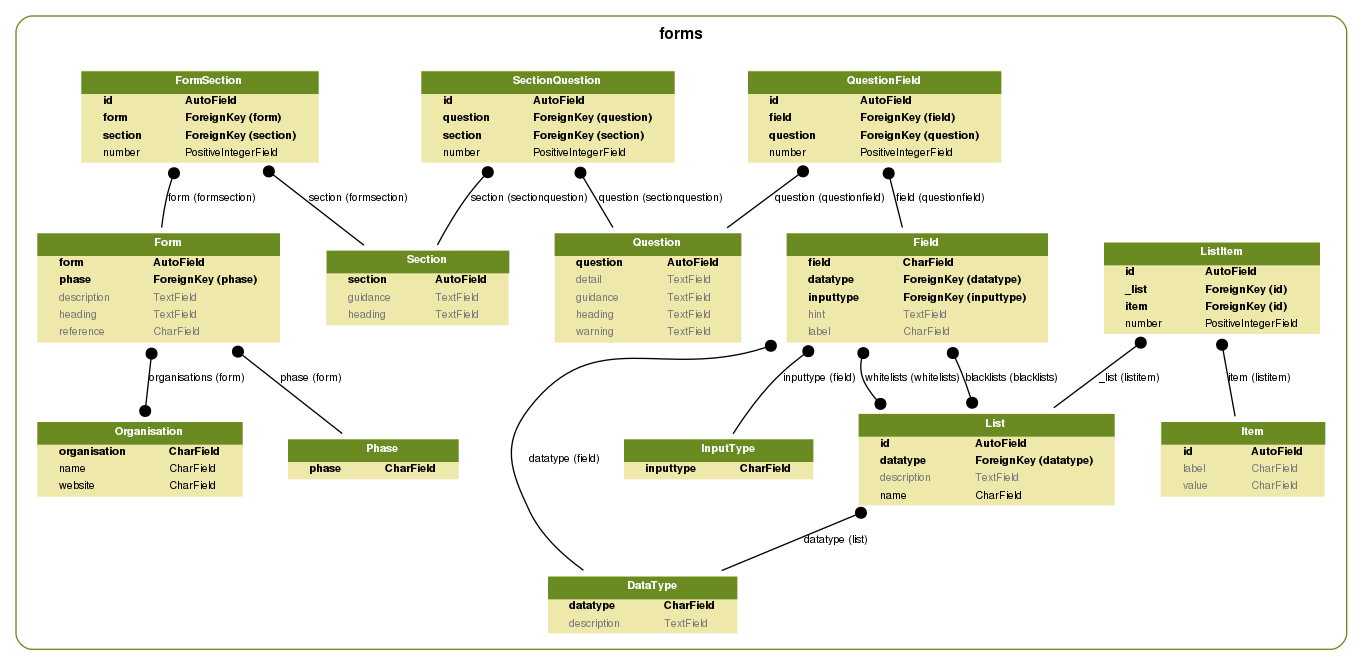
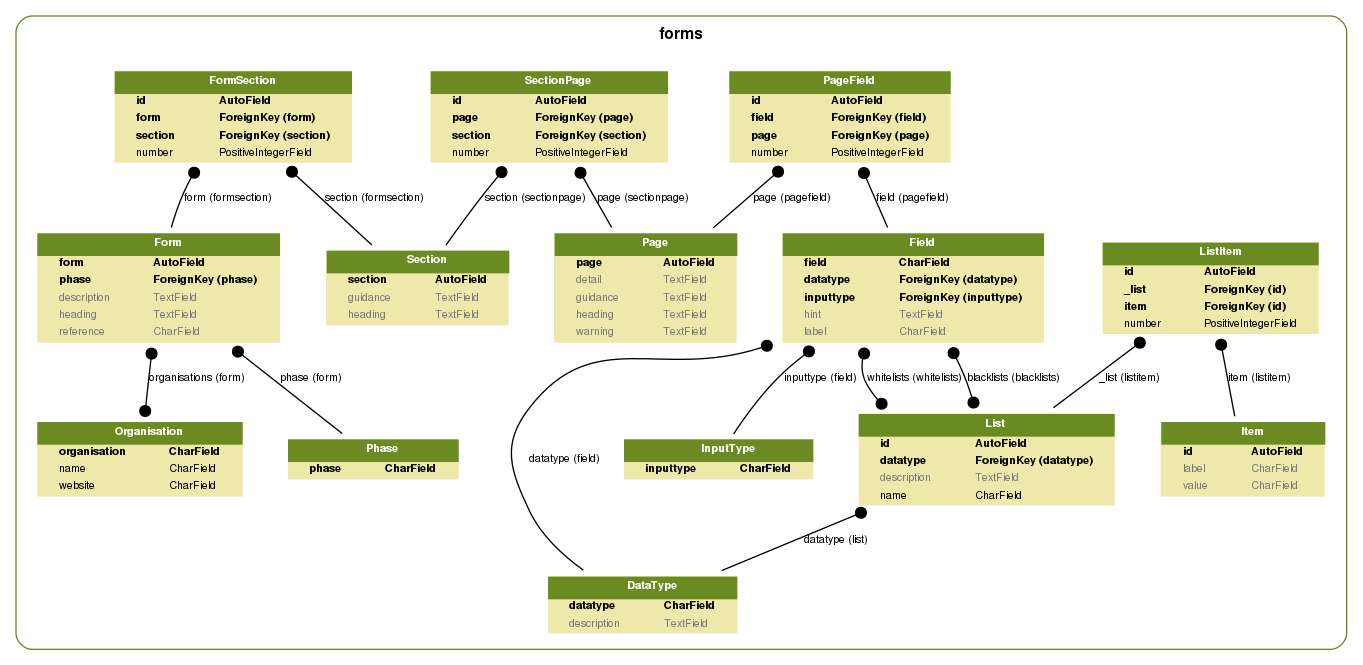
Renamed Question to Page

diff --git a/forms/templates/runner/elements/preview.html b/forms/templates/runner/elements/preview.html
@@ -23,27 +23,27 @@
     <p>{{ section.guidance }}</p>
     {% endif %}
 
-    {% for sectionquestion in section.sectionquestion_set.all %}
+    {% for sectionpage in section.sectionpage_set.all %}
 
     <div class="form-group">
       <fieldset>
           <legend>
-              <h1 class="heading-medium">{{ sectionquestion.question.heading }}</h1>
+              <h1 class="heading-medium">{{ sectionpage.page.heading }}</h1>
 
-              {% if sectionquestion.question.guidance %}
-              <span class="body-text">{{ sectionquestion.question.guidance }}</span>
+              {% if sectionpage.page.guidance %}
+              <span class="body-text">{{ sectionpage.page.guidance }}</span>
               {% endif %}
 
           </legend>
 
-      {% if sectionquestion.question.warning %}<p>{{ sectionquestion.question.warning }}</p>{% endif %}
+      {% if sectionpage.page.warning %}<p>{{ sectionpage.page.warning }}</p>{% endif %}
 
-      {% if sectionquestion.question.detail %}<p>{{ sectionquestion.question.detail }}</p>{% endif %}
+      {% if sectionpage.page.detail %}<p>{{ sectionpage.page.detail }}</p>{% endif %}
 
-      {% for field in sectionquestion.question.fields.all %}
+      {% for field in sectionpage.page.fields.all %}
 
         <label class="form-label" for="{{field.field}}">
-          {% if question.fields.count > 1 %}{{field.label}}{% endif %}
+          {% if page.fields.count > 1 %}{{field.label}}{% endif %}
           {% if field.hint %}<span class="form-hint">{{ field.hint }}</span>{% endif %}
         </label>
 

diff --git a/forms/templates/form.html b/forms/templates/form.html
@@ -23,26 +23,26 @@
     <p>{{ section.guidance }}</p>
     {% endif %}
 
-    {% for question in section.questions.all %}
+    {% for page in section.pages.all %}
       <div class="example">
-      <h3 class="heading-large"><span class="heading-secondary">Question <span class="number">{{question.number}}</span></span>{{ question.heading }}</h3>
+      <h3 class="heading-large"><span class="heading-secondary">Page <span class="number">{{page.number}}</span></span>{{ page.heading }}</h3>
 
-      {% if question.guidance %}
+      {% if page.guidance %}
       <h4 class="heading-small">Guidance</h4>
-      <p>{{ question.guidance }}</p>
+      <p>{{ page.guidance }}</p>
       {% endif %}
 
-      {% if question.warning %}
+      {% if page.warning %}
       <h4 class="heading-small">Warning</h4>
-      <p>{{ question.warning }}</p>
+      <p>{{ page.warning }}</p>
       {% endif %}
 
-      {% if question.detail %}
+      {% if page.detail %}
       <h4 class="heading-small">Detail</h4>
-      <p>{{ question.detail }}</p>
+      <p>{{ page.detail }}</p>
       {% endif %}
 
-      {% for field in question.fields.all %}
+      {% for field in page.fields.all %}
         <h4 class="heading-large"><span class="heading-secondary">Field <span class="number">{{field.number}}</span></span>{{ field.label }}</h4>
 
         {% if field.hint %}

diff --git a/forms/templates/base.html b/forms/templates/base.html
@@ -24,7 +24,7 @@
       <ul id='proposition-links'>
         <li><a href="/organisations"{% block organisations_active %}{% endblock %}>Organisations</a>
         <li><a href="/forms"{% block forms_active %}{% endblock %}>Forms</a>
-        <li><a href="/questions"{% block questions_active %}{% endblock %}>Questions</a>
+        <li><a href="/pages"{% block pages_active %}{% endblock %}>Pages</a>
         <li><a href="/fields"{% block fields_active %}{% endblock %}>Fields</a>
         <li><a href="/inputtypes"{% block inputtypes_active %}{% endblock %}>Input types</a>
       </ul>

diff --git a/forms/templates/_forms.html b/forms/templates/_forms.html
@@ -3,7 +3,7 @@
 <tr>
   <th scope="col">Form</th>
   <th scope="col" class="numeric">Sections</th>
-  <th scope="col" class="numeric">Questions</th>
+  <th scope="col" class="numeric">Pages</th>
 </tr>
 </thead>
 <tbody>
@@ -12,7 +12,7 @@
     <tr>
       <td><a href="/form/{{ form.form }}/">{{ form.heading }}</a></td>
       <td class="numeric">{{ form.n_sections }}</td>
-      <td class="numeric">{{ form.n_questions }}</td>
+      <td class="numeric">{{ form.n_pages }}</td>
     </tr>
 {% endfor %}
 

diff --git a/forms/migrations/0002_auto_20171205_1158.py b/forms/migrations/0002_auto_20171205_1158.py
@@ -1,0 +1,75 @@
+# -*- coding: utf-8 -*-
+# Generated by Django 1.11.1 on 2017-12-05 11:58
+from __future__ import unicode_literals
+
+from django.db import migrations, models
+import django.db.models.deletion
+
+
+class Migration(migrations.Migration):
+
+    dependencies = [
+        ('forms', '0001_initial'),
+    ]
+
+    operations = [
+        migrations.CreateModel(
+            name='Page',
+            fields=[
+                ('page', models.AutoField(primary_key=True, serialize=False)),
+                ('heading', models.TextField(blank=True, default='')),
+                ('guidance', models.TextField(blank=True, default='')),
+                ('warning', models.TextField(blank=True, default='')),
+                ('detail', models.TextField(blank=True, default='')),
+            ],
+        ),
+        migrations.RenameModel(
+            old_name='QuestionField',
+            new_name='PageField',
+        ),
+        migrations.RenameModel(
+            old_name='SectionQuestion',
+            new_name='SectionPage',
+        ),
+        migrations.RemoveField(
+            model_name='question',
+            name='fields',
+        ),
+        migrations.RemoveField(
+            model_name='pagefield',
+            name='question',
+        ),
+        migrations.RemoveField(
+            model_name='section',
+            name='questions',
+        ),
+        migrations.RemoveField(
+            model_name='sectionpage',
+            name='question',
+        ),
+        migrations.DeleteModel(
+            name='Question',
+        ),
+        migrations.AddField(
+            model_name='page',
+            name='fields',
+            field=models.ManyToManyField(through='forms.PageField', to='forms.Field'),
+        ),
+        migrations.AddField(
+            model_name='pagefield',
+            name='page',
+            field=models.ForeignKey(default='', on_delete=django.db.models.deletion.CASCADE, to='forms.Page'),
+            preserve_default=False,
+        ),
+        migrations.AddField(
+            model_name='section',
+            name='pages',
+            field=models.ManyToManyField(through='forms.SectionPage', to='forms.Page'),
+        ),
+        migrations.AddField(
+            model_name='sectionpage',
+            name='page',
+            field=models.ForeignKey(default=0, on_delete=django.db.models.deletion.CASCADE, to='forms.Page'),
+            preserve_default=False,
+        ),
+    ]

diff --git a/forms/models.py b/forms/models.py
@@ -73,20 +73,20 @@ class Field(models.Model):
         return self.field
 
 
-class Question(models.Model):
-    question = models.AutoField(primary_key=True)
+class Page(models.Model):
+    page = models.AutoField(primary_key=True)
     heading = models.TextField(blank=True, default='')
     guidance = models.TextField(blank=True, default='')
     warning = models.TextField(blank=True, default='')
     detail = models.TextField(blank=True, default='')
-    fields = models.ManyToManyField(Field, through='QuestionField')
+    fields = models.ManyToManyField(Field, through='PageField')
 
     def __str__(self):
         return self.heading
 
 
-class QuestionField(models.Model):
-    question = models.ForeignKey(Question)
+class PageField(models.Model):
+    page = models.ForeignKey(Page)
     field = models.ForeignKey(Field)
     number = models.PositiveIntegerField()
 
@@ -98,15 +98,15 @@ class Section(models.Model):
     section = models.AutoField(primary_key=True)
     heading = models.TextField(blank=True, default='')
     guidance = models.TextField(blank=True, default='')
-    questions = models.ManyToManyField(Question, through='SectionQuestion')
+    pages = models.ManyToManyField(Page, through='SectionPage')
 
     def __str__(self):
         return self.heading
 
 
-class SectionQuestion(models.Model):
+class SectionPage(models.Model):
     section = models.ForeignKey(Section)
-    question = models.ForeignKey(Question)
+    page = models.ForeignKey(Page)
     number = models.PositiveIntegerField()
 
     class Meta:

diff --git a/forms/admin.py b/forms/admin.py
@@ -1,5 +1,5 @@
 from django.contrib import admin
-from .models import Organisation, Phase, DataType, InputType, List, ListItem, Item, Field, Question, Section, Form, QuestionField, FormSection, SectionQuestion
+from .models import Organisation, Phase, DataType, InputType, List, ListItem, Item, Field, Page, Section, Form, PageField, FormSection, SectionPage
 
 
 
@@ -39,15 +39,15 @@ class InputTypeAdmin(admin.ModelAdmin):
     inlines = (ListItemInline,)
 
 
-class QuestionFieldInline(admin.TabularInline):
-    model = QuestionField
+class PageFieldInline(admin.TabularInline):
+    model = PageField
     extra = 1
 
 
-@admin.register(Question)
-class QuestionAdmin(admin.ModelAdmin):
-    list_display = ['question', 'heading']
-    inlines = (QuestionFieldInline,)
+@admin.register(Page)
+class PageAdmin(admin.ModelAdmin):
+    list_display = ['page', 'heading']
+    inlines = (PageFieldInline,)
 
 
 @admin.register(Field)
@@ -55,15 +55,15 @@ class FieldAdmin(admin.ModelAdmin):
     list_display = ['field', 'label', 'inputtype', 'datatype']
 
 
-class SectionQuestionInline(admin.TabularInline):
-    model = SectionQuestion
+class SectionPageInline(admin.TabularInline):
+    model = SectionPage
     extra = 1
 
 
 @admin.register(Section)
 class SectionAdmin(admin.ModelAdmin):
     list_display = ['section', 'heading']
-    inlines = (SectionQuestionInline,)
+    inlines = (SectionPageInline,)
 
 
 class FormSectionInline(admin.TabularInline):

diff --git a/forms/management/commands/load.py b/forms/management/commands/load.py
@@ -4,7 +4,7 @@ import io
 import os
 import csv
 
-from ...models import Organisation, Phase, DataType, InputType, Field, Question, Section, Form
+from ...models import Organisation, Phase, DataType, InputType, Field, Page, Section, Form
 
 from django.utils.dateparse import parse_datetime
 from django.core.exceptions import ObjectDoesNotExist
@@ -53,9 +53,9 @@ def load_field():
         o.save()
 
 
-def load_question():
-    for row in tsv_reader('question'):
-        o = Question(question=row['question'],
+def load_page():
+    for row in tsv_reader('page'):
+        o = Page(page=row['page'],
                        heading=row['heading'],
                        guidance=row['guidance'],
                        warning=row['warning'],
@@ -99,8 +99,8 @@ class Command(BaseCommand):
             load_inputtype()
         elif options['table'] == 'field':
             load_field()
-        elif options['table'] == 'question':
-            load_question()
+        elif options['table'] == 'page':
+            load_page()
         elif options['table'] == 'section':
             load_section()
         elif options['table'] == 'form':

diff --git a/forms/views.py b/forms/views.py
@@ -24,7 +24,7 @@ def home(request):
 def forms(request):
     forms = Form.objects \
         .annotate(n_sections=Count('sections', distinct=True)) \
-        .annotate(n_questions=Count('sections__questions', distinct=True))
+        .annotate(n_pages=Count('sections__pages', distinct=True))
     return render(request, 'forms.html', {'forms': forms})
 
 
